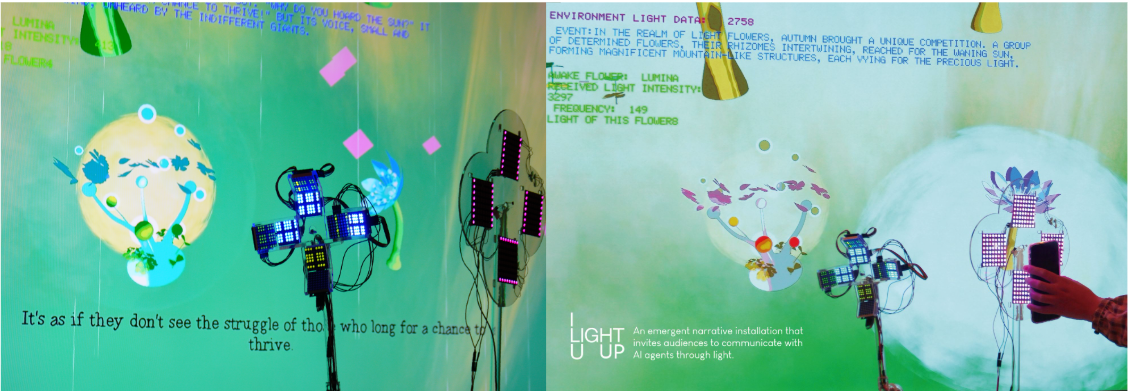
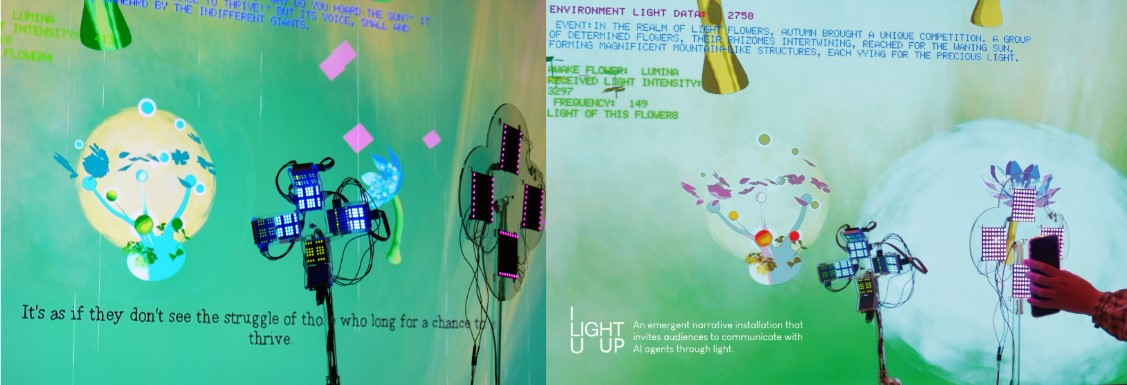
updated

diff --git a/light.html b/light.html
@@ -15,8 +15,8 @@
 
 	<style>
 		body {
-				background-color: black; /* 设置背景颜色为黑色 */
-				color: white; /* 可选：将文本颜色设置为白色 */
+				background-color: rgb(251, 251, 251); /* 设置背景颜色为黑色 */
+				color: rgb(0, 0, 0); /* 可选：将文本颜色设置为白色 */
 			}
 			.image1 {
 				width: 70%; /* 设置每张图片的宽度 */
@@ -76,31 +76,62 @@
 							<span class="image main"><img src="light/IlightuupConceptart.jpg" alt="" /></span>
 							<!-- <h1>Short description</h1> -->
 							<p>
-							A hybrid flower complex powered by Light Dependent Resistors and Large Language Models. It explores the communication with a computing system with light, and the "intra-action" between human, environment, and the virtual world, suggesting a performative perception of “sensing“.							
+							A hybrid digital/physical flower complex powered by Light Dependent Resistors and Large Language Models. It explores the communication with a computing system with light, and the "intra-action" between human, environment, and the virtual world, suggesting a performative perception of "sensing".							
 							</p>
 							<h2>Trailer video</h2>
 							<!-- <video controls width="100%" height="auto">
 								<source src="light/ILightUUp1080p.mp4" type="video/mp4">
 							</video> -->
 
-							<iframe width="1600" height="900" src="https://www.youtube.com/embed/L7zjkfbemCc?si=3J4SeJQYEv0hB4LW" title="YouTube video player" frameborder="0" allow="accelerometer; autoplay; clipboard-write; encrypted-media; gyroscope; picture-in-picture; web-share" referrerpolicy="strict-origin-when-cross-origin" allowfullscreen></iframe>
-							<p>other video source: <a href="https://www.bilibili.com/video/BV1PguXzfENn/?share_source=copy_web&vd_source=bbdd0f9f66def073ad16d2c3cacca401">Bilibili</a></p>
+							<div style="text-align:center;">
+								<iframe width="800" height="450" src="//player.bilibili.com/player.html?isOutside=true&aid=114878429798325&bvid=BV1PguXzfENn&cid=31143232779&p=1" title="YouTube video player" frameborder="0" allow="accelerometer; autoplay; clipboard-write; encrypted-media; gyroscope; picture-in-picture; web-share" referrerpolicy="strict-origin-when-cross-origin" allowfullscreen></iframe>
+							</div>
+							<p>Video source: <a href="https://www.bilibili.com/video/BV1PguXzfENn/?share_source=copy_web&vd_source=bbdd0f9f66def073ad16d2c3cacca401">Bilibili</a></p>
 
+							<h2>Concept</h2>
 							<p></p>
-							<p>“I Light U Up” is an interactive installation powered by Large Language Models (LLMs) and light, exploring light as environmental information that drives the emergent narrative. This installation features a physical artificial flower complex, with Light Dependent Resistors (LDRs) at its core, and a virtual narrative world on a digital screen. Through interaction with the flower complex, the audience can use light to communicate with different virtual beings "living" inside the LDRs. The environment surrounding the flower complex shapes events in the virtual world in real-time, while the agential sensors understand and react to their surroundings by sensing light. This work embraces ambiguity in data sensing, much like the misunderstandings that occur in human conversations. The exact light received by the sensor will prompt its responses, rather than reflecting what the human interactor intends to express. Different narratives emerge from the virtual world in the recursion of each human-sensor communication. A sensor is a material whose physical properties change with the environment, acting as a “sensory medium” that captures changes through time-based sequences. It reflects the contingency and complexity of the environment through the data fluctuations it generates. From an engineering perspective, the sensor is rational. However, humans, animals, and plants, when responding to external stimuli, share some commonalities with sensors. Yet, they relate to “feeling,” and sometimes, “emotion.” This artwork aims to challenge this common binary perception, highlighting the similarities between sensors and living organisms while amplifying the sensor’s spiritual essence. The development of artificial intelligence, particularly LLMs, enables humans to communicate with machines—entities that are not inherently alive—naturally and seamlessly. This work places this technology at the core of the project, using LLMs to drive the “virtual” lives of the sensors. Moreover, this project envisions a scenario where environmental information, such as light, humidity, and temperature, is not presented in a graphical format but instead integrated into an imaginative, poetic space that influences the organic growth and interaction of beings within that environment. Rather than merely judging the data, individuals would read, understand, and feel the emotions of this narrative world, as if the data were spatially manifested before them.
+							<p>ILightUUp is an interactive installation powered by Large Language Models (LLMs) and light, exploring light as prompts for emergent narrative. This installation features a physical flower complex with light sensors, and a virtual narrative world on a digital screen. The audience can use light to communicate with different virtual beings "living" inside the sensors. The ambient light shapes events in the virtual world, while the flowers react to their surroundings by sensing light. This work embraces ambiguity in data sensing, much like the misunderstandings that occur in human conversations. 
 							</p>	
 							
 							<p>                 .*     </p>
-							<p>                 *.      </p>
-							<span class="image main"><img src="light/IlightUUpArtwork.jpg" alt="" /></span>
-
+							<!-- <p>                 *.      </p> -->
+							<div style="text-align:center;">
+								<span class="image main">
+									<img src="light/IlightUUpArtwork.jpg" alt="" style="width:800px;display:block;margin:0 auto !important;" />
+								</span>
+							</div>
 							<p>                 .*     </p>
-							<p>                 *.      </p>
+							<p>The exact light received by the sensor will prompt its responses, rather than reflecting what the human interactor intends to express. Different narratives emerge from the virtual world in the recursion of each human-sensor communication. 
+							</p>
 
-							<h2>Digital gameplay</h2>
-							<!-- <video controls width="100%" height="auto">
-								<source src="light/digitalgameplay.mp4" type="video/mp4">
-							</video> -->
+
+							<div style="text-align:center;">
+								<span class="image main">
+									<img src="light/conceptualframework.jpg" alt="" style="width:800px;display:block;margin:0 auto !important;" />
+								</span>
+							</div>
+
+							
+							<p>This work applies LLMs to drive the “virtual” lives of the sensors. Through this, it envisions a scenario where environmental information, such as light, humidity, and temperature, is not presented in a graphical format but instead integrated into an imaginative, poetic space that influences the organic growth and interaction of beings within that environment. 
+							</p>
+
+							<p>
+							Rather than merely judging the data, individuals would read, understand, and feel the emotions of this narrative world, as if the data were spatially manifested before them.
+							</p>
+
+							<div style="text-align:center;">
+								<span class="image main">
+									<img src="light/InteractionV2.jpg" alt="" style="width:1000px;display:block;margin:0 auto !important;" />
+								</span>
+							</div>
+
+
+							<h2>Publication and Exhibition</h2>
+							<p>
+This project was published in <a href="https://dl.acm.org/doi/10.1145/3680530.3695446">SIGGRAPH ASIA 2024 Art Paper</a> 
+							</p>
+
+
 
 							<div class="image-container">
 								<span class="image1"><img src="light/VisualDesign.jpg" alt="Visual Design" /></span>

diff --git a/index.html b/index.html
@@ -69,19 +69,23 @@
 								<p> Making forking possibilities. 捏一些可能的花园</p>
 							</header>
 
-						
+							<!-- Random Gallery -->
+							<div id="main">
+								<div class="inner">
+									<header>
+										<h2>Random Gallery</h2>
+									</header>
+									<div id="carouselGallery" class="carousel-gallery" style="position:relative;max-width:1200px;margin:auto;">
+										<!-- Carousel images will be inserted here -->
+										<!-- Buttons removed for automatic switching -->
+									</div>
+								</div>
+							</div>
 	
-							<span class="image main">
-								<img src="images/webcollage.jpg" alt="" />
-								<P>This is Yoyo~</P>
-						   </span>
+
 
 						   <span class="image main">
 							<h1> Projects</h1>
-						   </span>
-							</h1>
-						   </span>
-						
 							<section class="tiles">
 								<article>
 									<span class="image">
@@ -193,19 +197,12 @@
 							</section>
 						</div>
 					</div>
+				
+					<span class="image main">
+								<img src="images/webcollage.jpg" alt="" style="width:700px;display:block;margin:0 auto;" />
+								<P style="text-align:center;">This is Yoyo~</P>
+					</span>
 
-					<!-- Random Gallery -->
-					<div id="main">
-						<div class="inner">
-							<header>
-								<h2>Random Gallery</h2>
-							</header>
-							<div id="carouselGallery" class="carousel-gallery" style="position:relative;max-width:1200px;margin:auto;">
-								<!-- Carousel images will be inserted here -->
-								<!-- Buttons removed for automatic switching -->
-							</div>
-						</div>
-					</div>
 
 				<!-- Footer -->
 					<footer id="footer">

diff --git a/assets/css/main.css b/assets/css/main.css
@@ -148,7 +148,7 @@ input, select, textarea {
 		-ms-transition: border-bottom-color 0.2s ease, color 0.2s ease;
 		transition: border-bottom-color 0.2s ease, color 0.2s ease;
 		text-decoration: none;
-		color: #5276ec;
+		color: #6bff2c;
 		border-bottom: dotted 1px rgba(32, 163, 245, 0.999);
 	}
 
